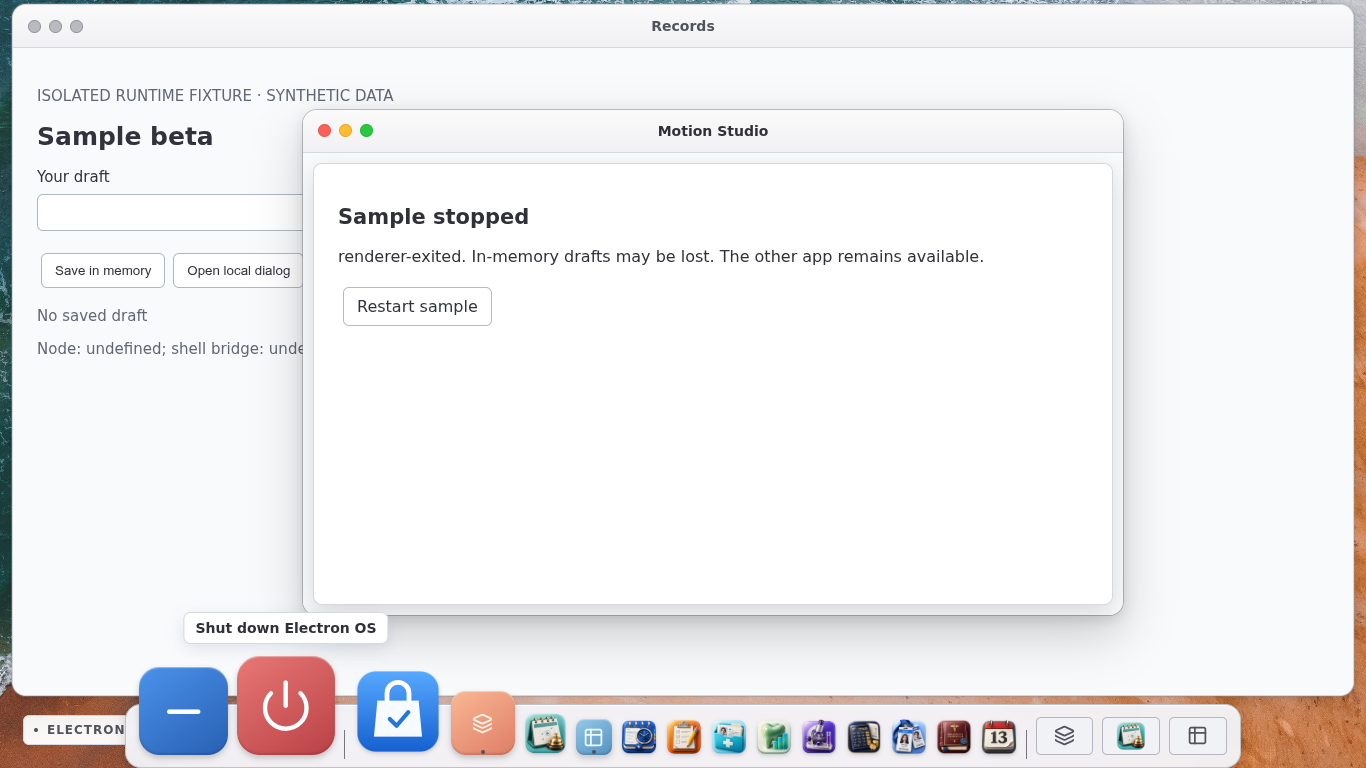
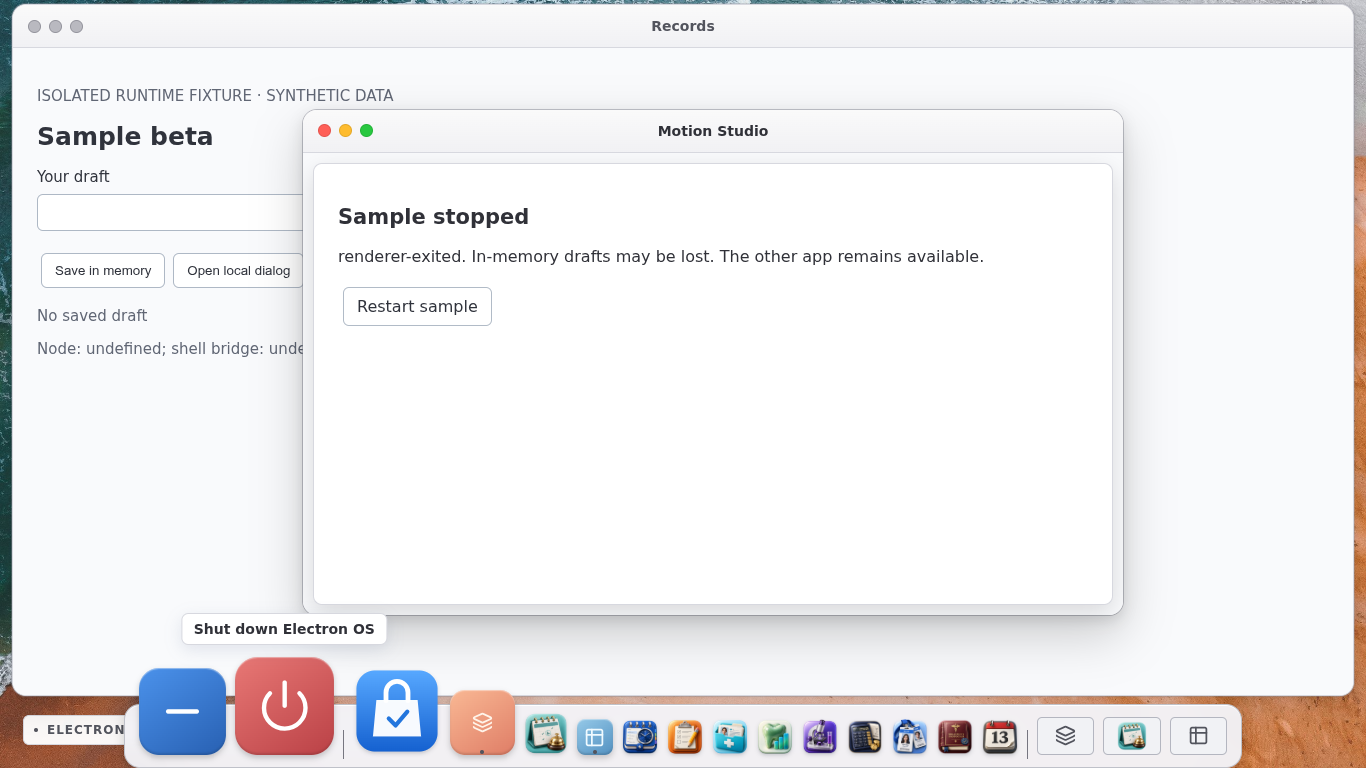
fix(runtime): preserve captured corners and select focus after composition

diff --git a/electron/runtime/manager.ts b/electron/runtime/manager.ts
@@ -17,15 +17,15 @@ export class FixtureRuntime {
   }
   private fail(e: Entry, reason: string) {
     if (this.entries.get(e.state.id)!==e || e.state.phase === 'failed') return;
+    const wasVisible = e.view.getVisible();
     e.state.phase = 'failed'; e.state.reason = reason; e.view.setVisible(false);
+    if (wasVisible && !this.win.isDestroyed()) this.win.webContents.focus();
     clearInterval(e.watchdog); clearTimeout(e.pingTimer); this.emit();
   }
   private applyVisibility(e: Entry) {
     const wanted = this.desired.find(v => v.id === e.state.id);
     const visible = !!wanted?.visible && e.state.phase === 'ready';
-    const was = e.view.getVisible(); e.view.setVisible(visible);
-    if (visible && !was) e.view.webContents.focus();
-    else if (!visible && was && !this.win.isDestroyed()) this.win.webContents.focus();
+    e.view.setVisible(visible);
   }
   private async refresh(e: Entry, fresh = false) {
     // An explicit shell capture must not return an older frame just because a
@@ -69,7 +69,7 @@ export class FixtureRuntime {
     wc.on('unresponsive', () => { this.fail(e, 'unresponsive'); if (!wc.isDestroyed()) wc.forcefullyCrashRenderer(); });
     wc.on('did-finish-load', () => {
       if (this.entries.get(id) !== e) return;
-      e.state.phase = 'ready'; this.applyVisibility(e); this.emit();
+      e.state.phase = 'ready'; this.applyVisibility(e); if (e.view.getVisible()) wc.focus(); this.emit();
       e.captureTimer = setTimeout(() => void this.refresh(e), 100);
       let pending = false;
       e.watchdog = setInterval(() => {
@@ -88,6 +88,7 @@ export class FixtureRuntime {
     for (const layout of next) {
       if (layout.rect.x + layout.rect.width > width + 1 || layout.rect.y + layout.rect.height > height + 1) throw new Error('Outside host');
     }
+    const hadNativeInput = [...this.entries.values()].some(e => e.view.getVisible());
     this.desired = next;
     for (const layout of this.desired) {
       let e = this.entries.get(layout.id);
@@ -98,6 +99,10 @@ export class FixtureRuntime {
       if (e.view.getVisible() && !layout.visible) void this.refresh(e);
       this.applyVisibility(e);
     }
+    // Choose focus after all visibility changes, independent of registry order.
+    const foreground = [...this.entries.values()].find(e => e.view.getVisible());
+    if (foreground && !foreground.view.webContents.isFocused()) foreground.view.webContents.focus();
+    else if (!foreground && hadNativeInput) this.win.webContents.focus();
     this.emit();
   }
   restart(id: unknown) {
@@ -137,7 +142,7 @@ export class FixtureRuntime {
       if (wholeHost ? !e.view.getVisible() : (Math.abs(e.rect.x - rect.x) > 3 || Math.abs(e.rect.width - rect.width) > 3 || e.rect.y - rect.y < 40 || e.rect.y - rect.y > 46)) continue;
       await this.refresh(e, true); if (!e.image) continue;
       const s = e.image.getSize();
-      compositePixels(bytes, size.width, size.height, e.image.toBitmap(), s.width, s.height, { x: (e.rect.x-rect.x)*scaleX, y: (e.rect.y-rect.y)*scaleY, width:e.rect.width*scaleX,height:e.rect.height*scaleY });
+      compositePixels(bytes, size.width, size.height, e.image.toBitmap(), s.width, s.height, { x: (e.rect.x-rect.x)*scaleX, y: (e.rect.y-rect.y)*scaleY, width:e.rect.width*scaleX,height:e.rect.height*scaleY, radius:e.rect.x===0&&e.rect.width===hostWidth?0:10*scaleX });
     }
     return nativeImage.createFromBitmap(bytes, { width: size.width, height: size.height });
   }

diff --git a/electron/runtime/contracts.ts b/electron/runtime/contracts.ts
@@ -18,15 +18,20 @@ export function fixtureAsset(url: string, host: string): string | undefined {
   try { const u = new URL(url); return u.protocol === 'dental-fixture:' && u.host === host && !u.search && !u.hash && ['/index.html', '/app.js', '/app.css'].includes(u.pathname) ? u.pathname.slice(1) : undefined; } catch { return undefined; }
 }
 /** BGRA/RGBA buffers share byte order; copy opaque/alpha pixels without channel conversion. */
-export function compositePixels(base: Uint8Array, width: number, height: number, layer: Uint8Array, lw: number, lh: number, target: RuntimeRect) {
+export function compositePixels(base: Uint8Array, width: number, height: number, layer: Uint8Array, lw: number, lh: number, target: RuntimeRect & { radius?: number }) {
   if (base.length !== width * height * 4 || layer.length !== lw * lh * 4) throw new Error('Invalid bitmap');
+  const radius = Math.max(0, Math.min(target.radius ?? 0, target.width / 2, target.height / 2));
   for (let y = Math.max(0, Math.floor(target.y)); y < Math.min(height, Math.ceil(target.y + target.height)); y++) {
     for (let x = Math.max(0, Math.floor(target.x)); x < Math.min(width, Math.ceil(target.x + target.width)); x++) {
       const sx = Math.min(lw - 1, Math.max(0, Math.floor((x - target.x) / target.width * lw)));
       const sy = Math.min(lh - 1, Math.max(0, Math.floor((y - target.y) / target.height * lh)));
-      const b = (y * width + x) * 4, s = (sy * lw + sx) * 4, alpha = layer[s + 3] / 255;
+      const b = (y * width + x) * 4, s = (sy * lw + sx) * 4, sourceAlpha = layer[s + 3] / 255;
+      const cx = Math.max(target.x + radius, Math.min(x + 0.5, target.x + target.width - radius));
+      const cy = Math.max(target.y + radius, Math.min(y + 0.5, target.y + target.height - radius));
+      const coverage = radius ? Math.max(0, Math.min(1, radius + 0.5 - Math.hypot(x + 0.5 - cx, y + 0.5 - cy))) : 1;
+      const alpha = sourceAlpha * coverage;
       for (let c = 0; c < 3; c++) base[b + c] = Math.round(layer[s + c] * alpha + base[b + c] * (1 - alpha));
-      base[b + 3] = Math.round(layer[s + 3] + base[b + 3] * (1 - alpha));
+      base[b + 3] = Math.round(alpha * 255 + base[b + 3] * (1 - alpha));
     }
   }
 }

diff --git a/tests/runtimeContracts.test.ts b/tests/runtimeContracts.test.ts
@@ -13,4 +13,11 @@ describe('isolated runtime boundary',()=>{
   expect([...base.slice(0,4)]).toEqual([255,255,255,255]);expect([...base.slice(16,20)]).toEqual([0,100,200,255]);expect([...base.slice(28,32)]).toEqual([255,255,255,255]);
   expect(()=>compositePixels(base,1,1,layer,1,1,{x:0,y:0,width:1,height:1})).toThrow();
  });
+ it('preserves shell corners under a rounded native body capture',()=>{
+  const base=new Uint8Array(20*20*4).fill(255), layer=new Uint8Array([0,0,0,255]);
+  compositePixels(base,20,20,layer,1,1,{x:0,y:0,width:20,height:20,radius:8});
+  expect([...base.slice(0,4)]).toEqual([255,255,255,255]);
+  expect([...base.slice((10*20+10)*4,(10*20+10)*4+4)]).toEqual([0,0,0,255]);
+  expect([...base.slice(-4)]).toEqual([255,255,255,255]);
+ });
 });

diff --git a/dental-os_v1_working_info/milestone-03-isolated-runtime-and-shell/VERIFICATION_EVIDENCE.md b/dental-os_v1_working_info/milestone-03-isolated-runtime-and-shell/VERIFICATION_EVIDENCE.md
@@ -10,10 +10,10 @@ Branch `codex/milestone-03`, based on M02 `7c794b45`. [SHA-256 manifest](evidenc
 
 | Command | Outcome | Retained evidence |
 | --- | --- | --- |
-| `nice -n 10 timeout 60s node node_modules/vitest/vitest.mjs run --maxWorkers=1` | 39 tests in 5 files pass | [unit log](evidence/unit.log) |
-| `nice -n 10 timeout 120s npm run build` | typecheck/build pass, final capture implementation | [build log](evidence/build.log) |
+| `nice -n 10 timeout 60s node node_modules/vitest/vitest.mjs run --maxWorkers=1` | 40 tests in 5 files pass | [unit log](evidence/unit.log) |
+| `nice -n 10 timeout 120s npm run build` | typecheck/build pass, final capture/focus implementation | [build log](evidence/build.log) |
 | `nice -n 10 timeout 240s node tools/run-ui-test.mjs tests/runtime.mjs tests/runtime-dpr.mjs tests/overview.mjs tests/native-session.mjs` | sequential private runtime/DPR/overview/native regressions pass | [shared run](evidence/private-shared.log) |
-| `nice -n 10 timeout 180s node tools/run-ui-test.mjs tests/runtime.mjs tests/runtime-dpr.mjs` | final serialized capture change passes | [final runtime log](evidence/private-runtime-final.log) |
+| `nice -n 10 timeout 180s node tools/run-ui-test.mjs tests/runtime.mjs tests/runtime-dpr.mjs` | final rounded capture and focus ordering changes pass | [final runtime log](evidence/private-runtime-final.log) |
 
 [R04/R05/R11 and G03 runtime checks](evidence/runtime-verification.json) record three distinct shell/alpha/beta process IDs; sandbox/context isolation/no Node; separate storage; rejected forged report, network, cross-origin/file fetch, popup and unknown layouts; owner-scoped modal/keyboard focus and dirty-close cancellation; shared resize/overview/fullscreen dock/Genie; minimize/restore draft/process continuity; discard/reopen; actual renderer crash and infinite-loop termination with other app/shell still responsive; three cleanup cycles with no closed sample webContents retained; no shell page errors.
 
@@ -30,3 +30,8 @@ CPU/memory/process preflight before heavy work; single heavy job, low priority, 
 ## Remaining limits
 
 Windows hosted CI must pass before G03 is closed. Physical Windows compositing, clipping, input, scaling and device performance are deferred after M11/before release under the approved policy. User visual acceptance is separate. This proves controlled samples, not production package trust, SDK/auth, installed dental apps or general background animation freshness. M04 is not started.
+
+
+## First hosted Windows run
+
+[Run 38781581529](https://github.com/Business-It-Partners/dental-os/actions/runs/38781581529) at `f8fc71e35d980cda251e40c7abdb9245a3cdcc21` passed 38 unit tests (one POSIX-only skip), build, four host-state checks and 26 runtime checks. [Original metadata](evidence/windows-ci-first/run.json) and original screenshots/logs are retained under `evidence/windows-ci-first/`. Review found a capture corner defect, repaired after this run. It is superseded as final runtime evidence by the upcoming run on the repaired source.

diff --git a/dental-os_v1_working_info/milestone-03-isolated-runtime-and-shell/IMPLEMENTATION_NOTES.md b/dental-os_v1_working_info/milestone-03-isolated-runtime-and-shell/IMPLEMENTATION_NOTES.md
@@ -22,3 +22,7 @@ No backend/cloud configuration, deployment, production credentials or real patie
 ## Repairs during verification
 
 Initial denied-navigation test waited for a navigation intentionally blocked by policy; the final test observes unchanged origin without waiting for success. Private CDP keyboard input did not produce Electron before-input-event, so reserved keys use trusted DOM keydown capture in the isolated platform preload. Modal Escape stays local. Captures now serialize with pending mirror work; the DPR test waits for painting before capture and the resulting draft text was visually inspected.
+
+The first Windows CI passed automation, but screenshot review found square composed corners. The final bitmap compositor applies a scaled rounded mask, preserving shell pixels outside native clipping; a focused unit regression covers corner preservation. The original Windows run remains retained separately.
+
+Focus is selected once after all native visibility changes, so registry iteration order cannot return focus to the shell after activating the other app. Linux verifies both directions explicitly; Windows rerun applies the same checks.
